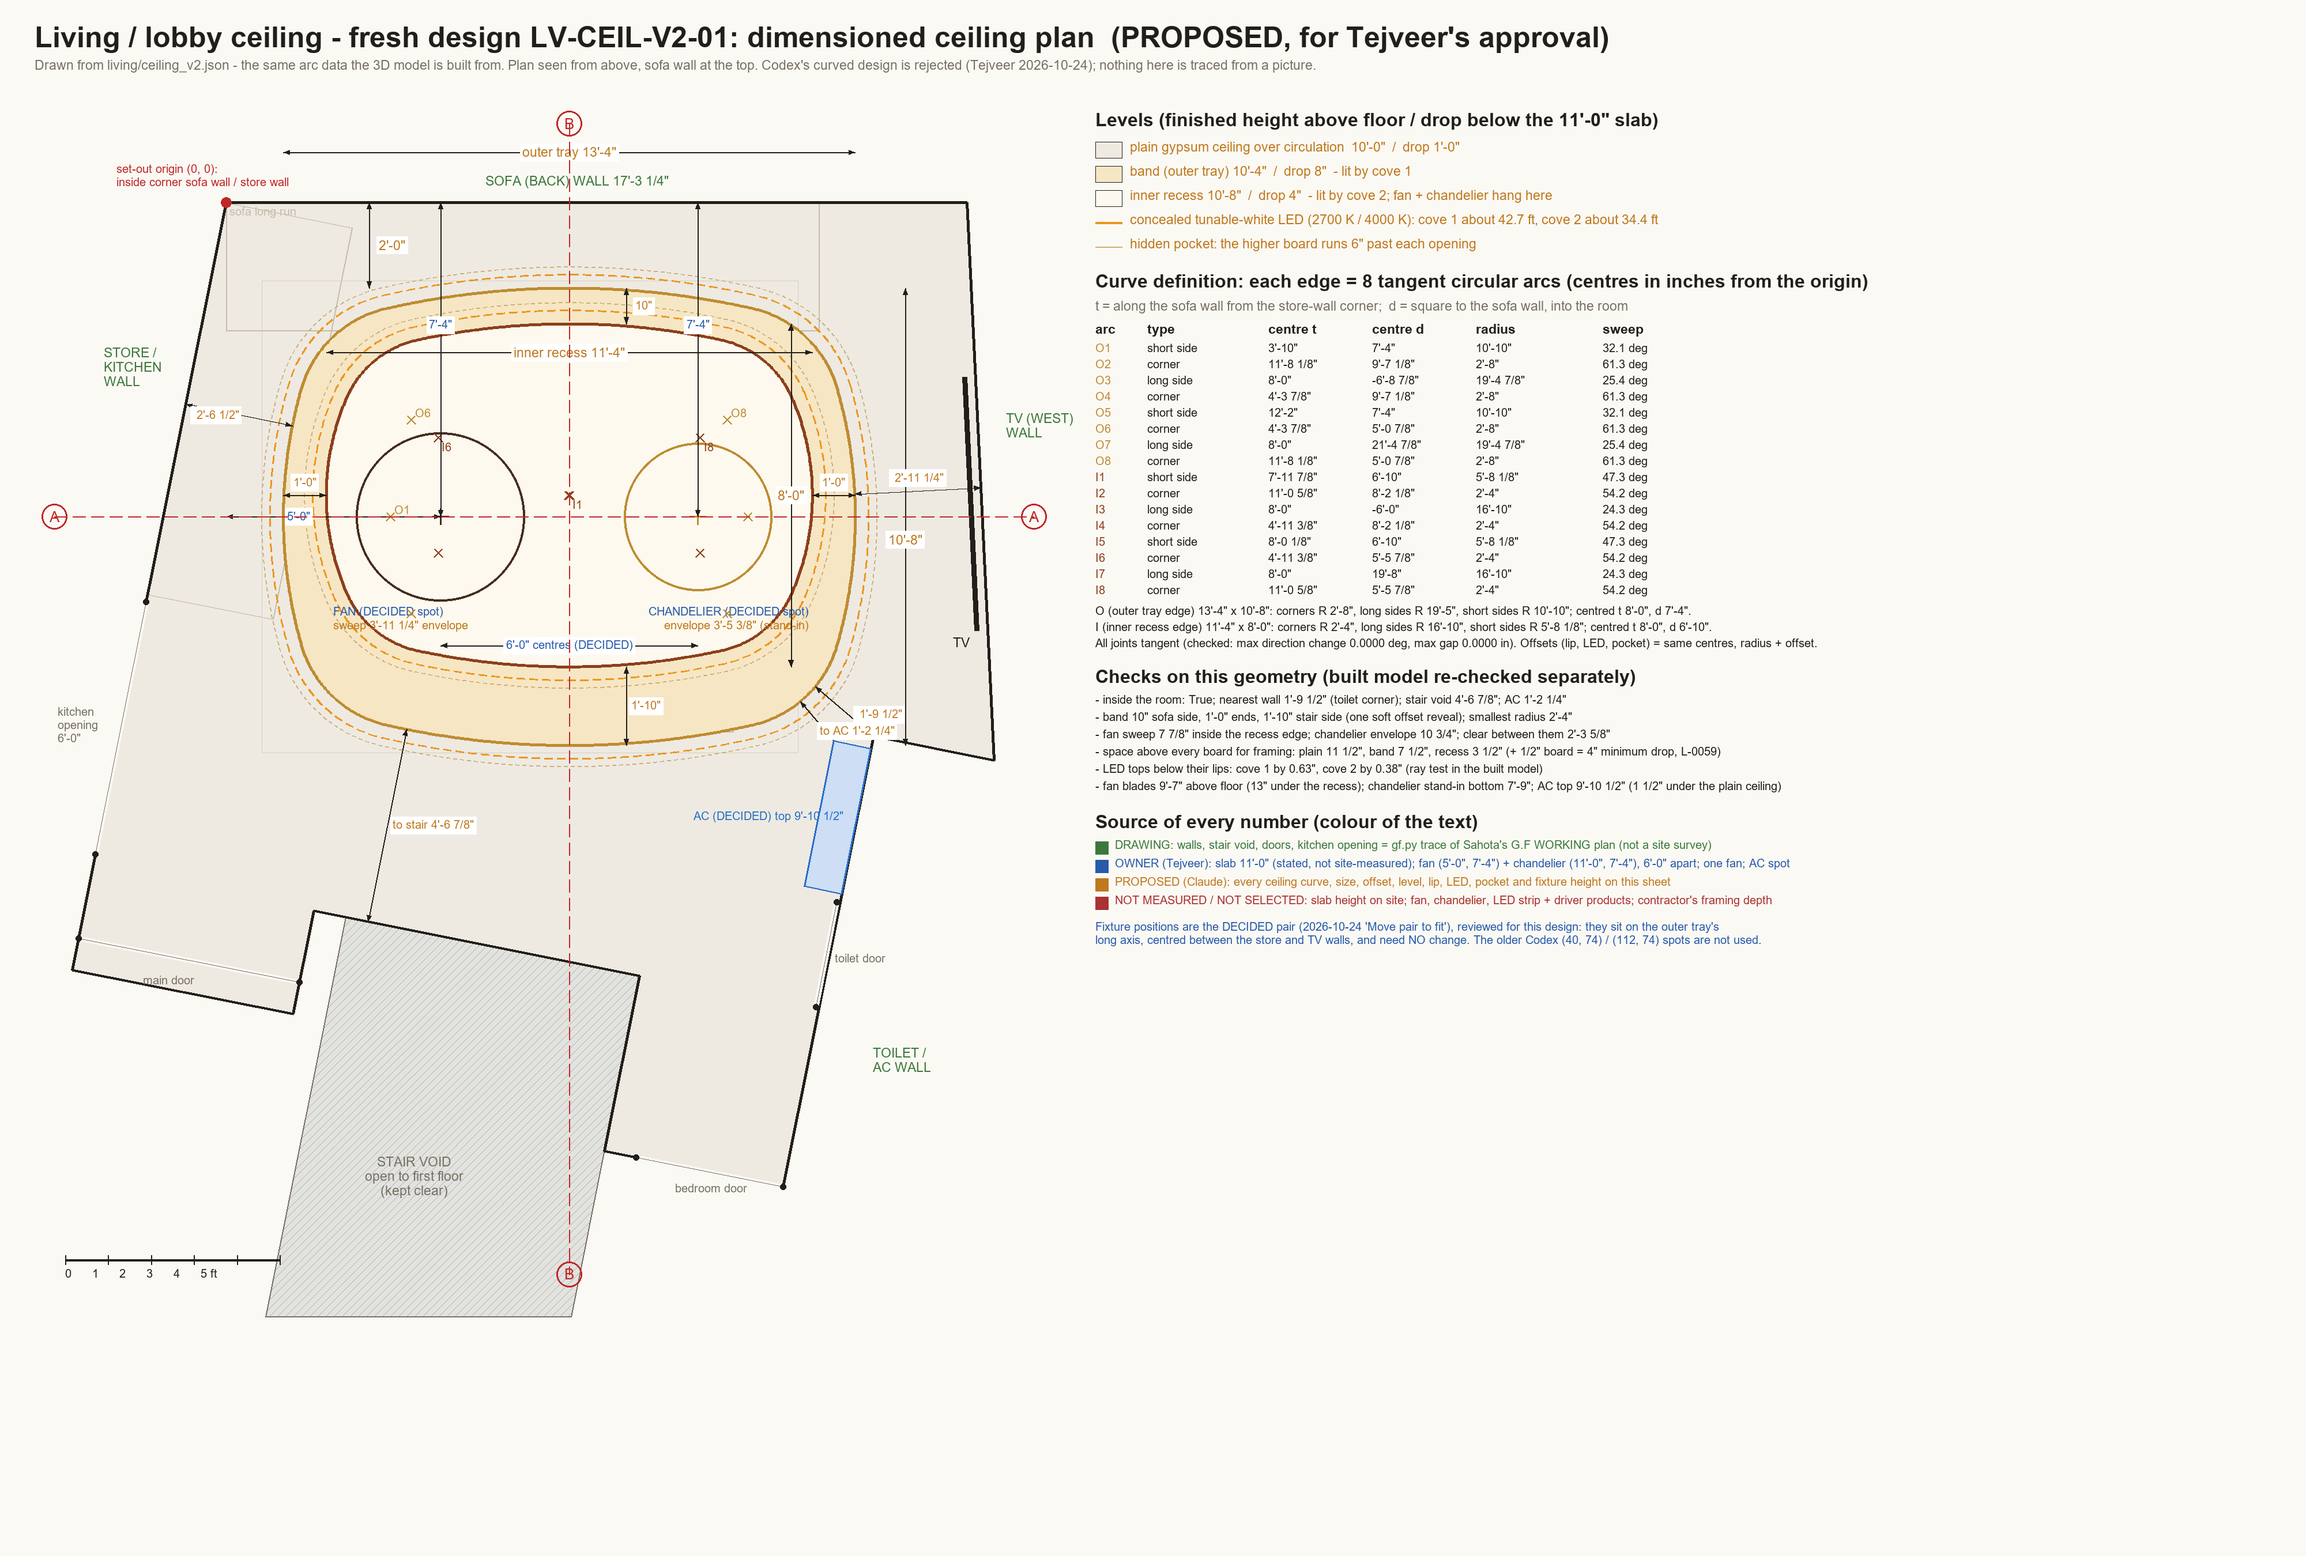
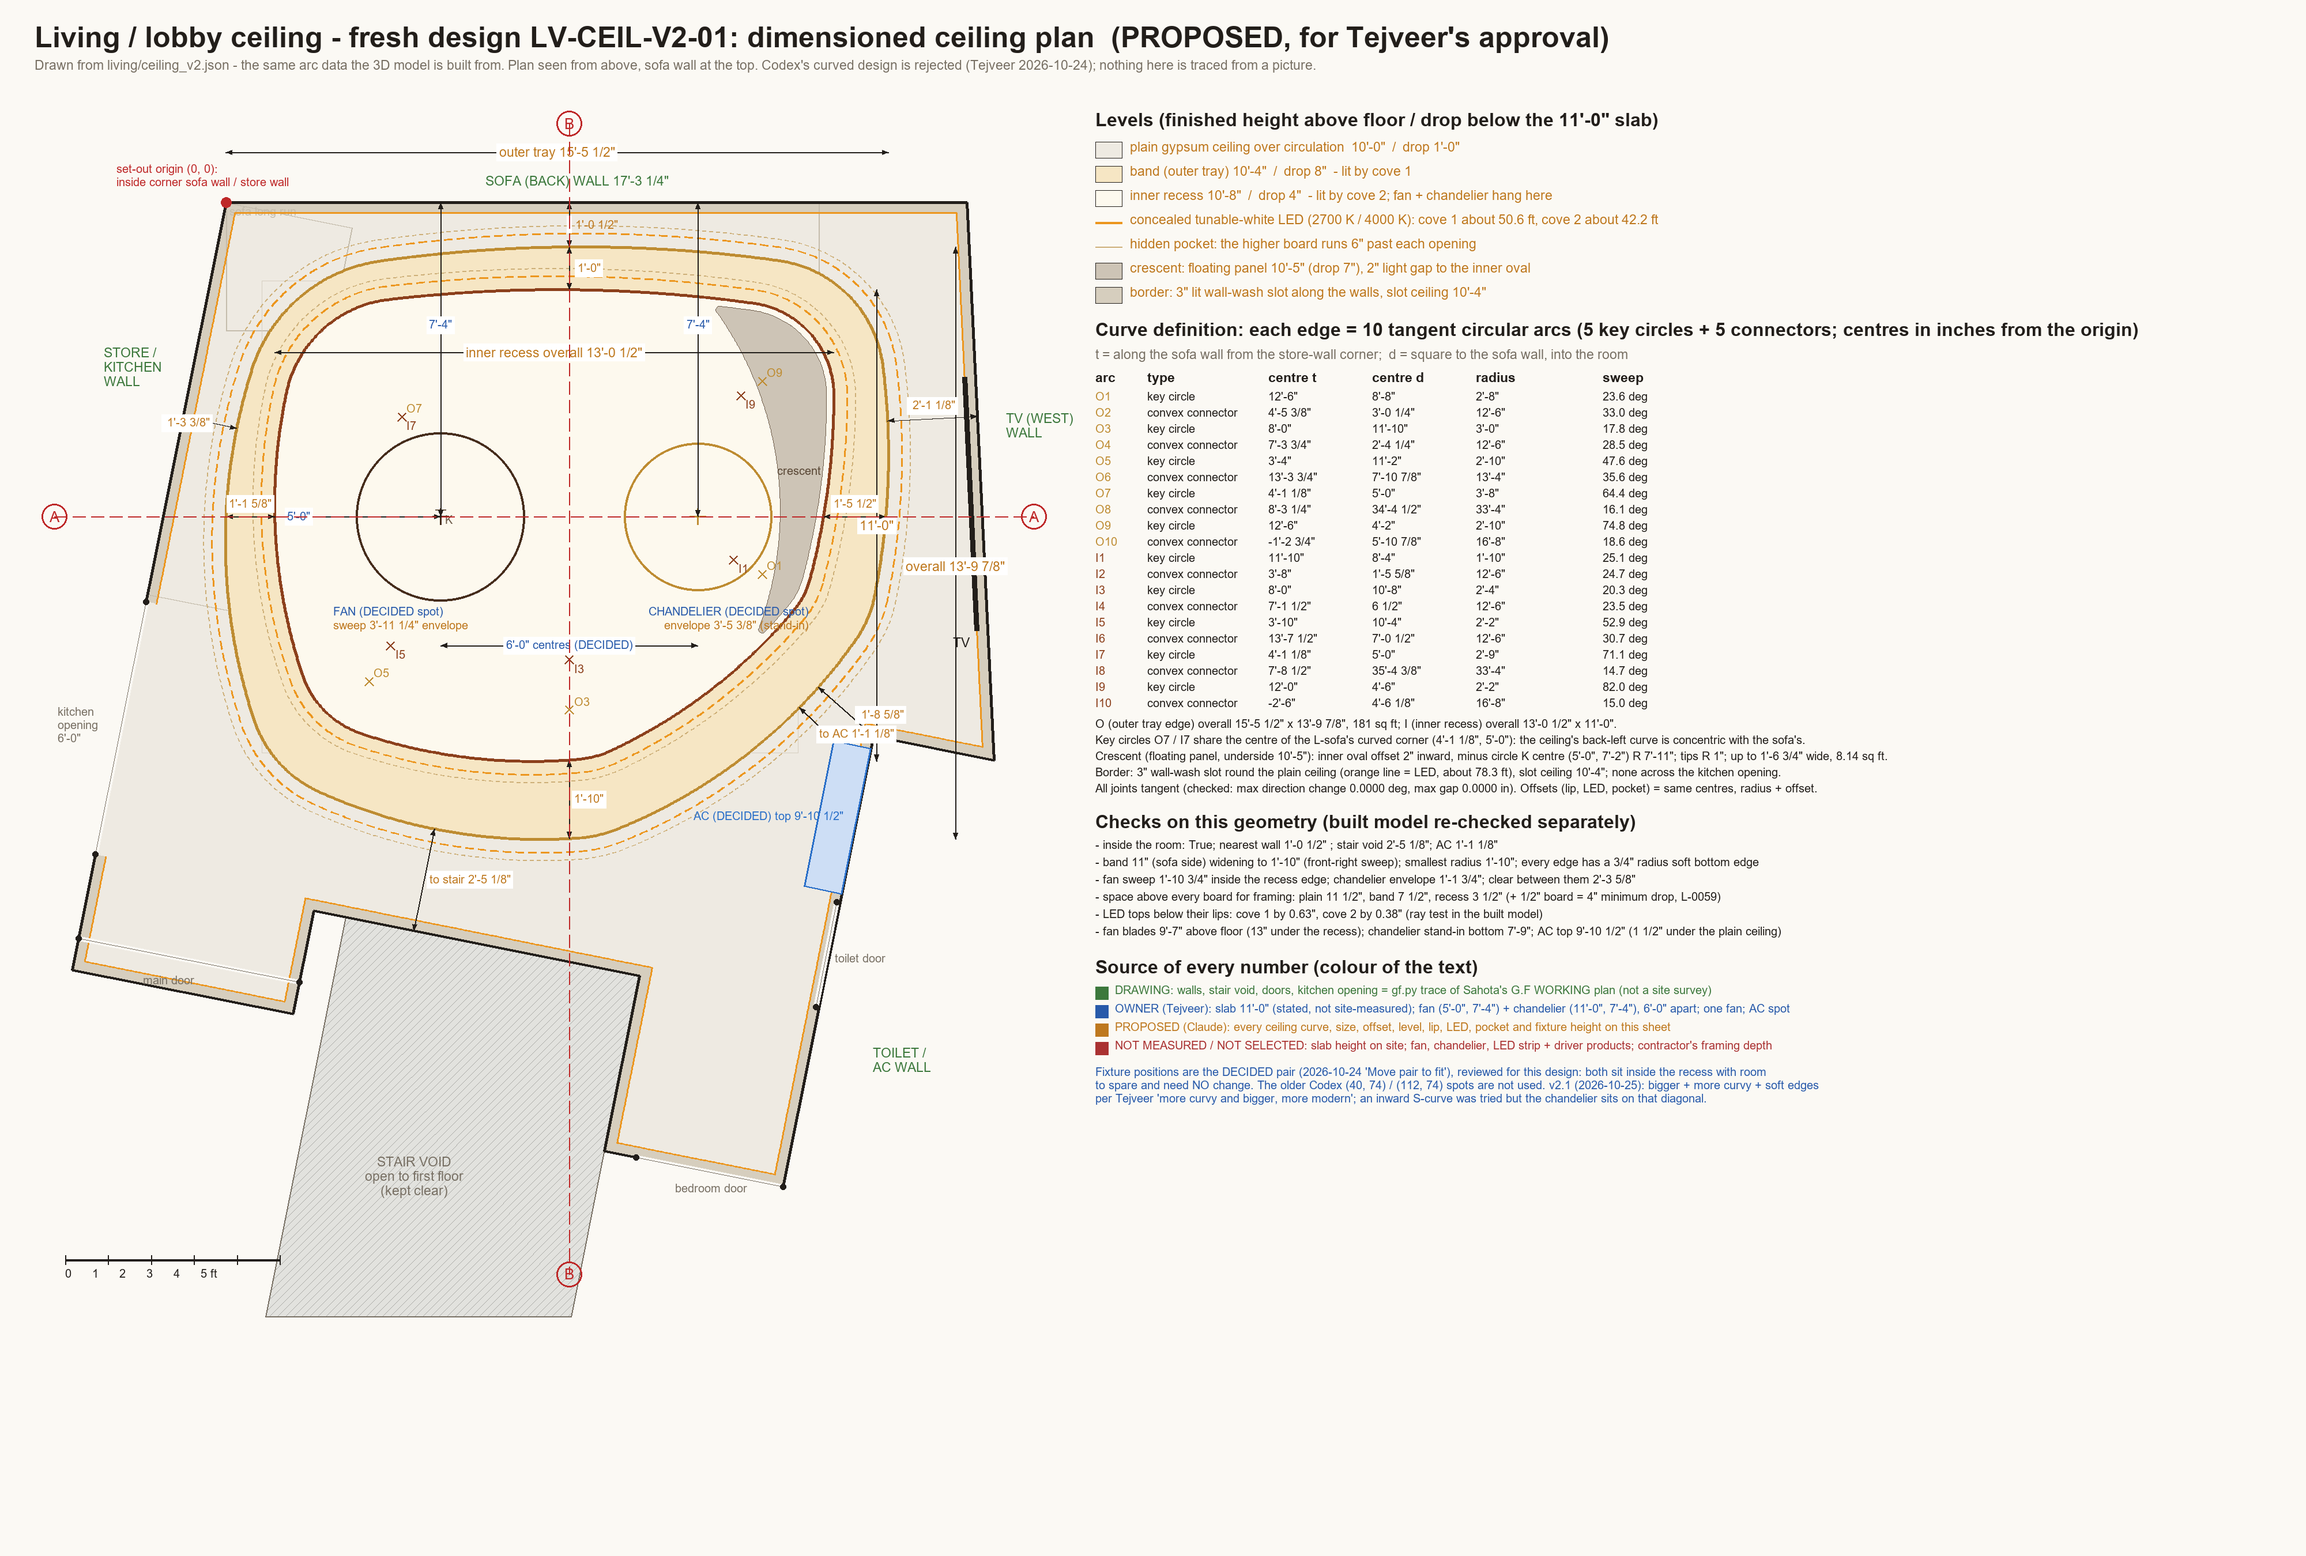
Update site (1 Layout N, 4 option C, 7 bathroom panoramas, house page)

diff --git a/house/living-ceiling/index.html b/house/living-ceiling/index.html
@@ -26,20 +26,18 @@ ul{padding-left:20px;max-width:80ch} li{margin:4px 0}
 <span class="tag">Proposed - for your approval</span>
 <!-- house-back 2026-10-24 -->
 <p style="margin:0 0 10px"><a href="../" style="color:inherit;font-weight:600">&larr; House 360</a></p>
-<h1>Living room ceiling - fresh design</h1>
-<p class="lead">New design drawn on the real room plan (Codex's curved ceiling is rejected). The drawings, the 3D model and these pictures all come from one set of arcs. Fast previews: the 4K renders follow only after you pass it.</p>
-<div class="bar" role="group" aria-label="Cove light colour"><button id="k27" aria-pressed="true">Warm 2700 K</button><button id="k40" aria-pressed="false">White 4000 K</button><span>same coves, same camera, exposure and white balance</span></div>
-<h2>3D model previews</h2>
-    <figure class="shot r16x9"><img data-v="LVC2F" src="img/LVC2F_K27.jpg" alt="Room view from the bedroom-door passage, toward the sofa wall" loading="lazy"><figcaption>Room view from the bedroom-door passage, toward the sofa wall</figcaption></figure>
-    <figure class="shot r16x9"><img data-v="LVC2E" src="img/LVC2E_K27.jpg" alt="Room view from just inside the main door" loading="lazy"><figcaption>Room view from just inside the main door</figcaption></figure>
-    <figure class="shot r4x3"><img data-v="LVCU2" src="img/LVCU2_K27.jpg" alt="Straight up from under the middle of the ceiling (whole feature). Looking up, so left and right are swapped compared with the plan: the chandelier shows on the left, the fan on the right; the sofa wall is at the top" loading="lazy"><figcaption>Straight up from under the middle of the ceiling (whole feature). Looking up, so left and right are swapped compared with the plan: the chandelier shows on the left, the fan on the right; the sofa wall is at the top</figcaption></figure>
+<h1>Living room ceiling - design B: bigger, curvier, 2 ovals + crescent + border</h1>
+<p class="lead">Your choices of 25 Oct: bigger and curvier (B, deeper toward the stairs), the reference's 2 ovals + crescent + lit border, soft rounded edges. Fan and chandelier unchanged. Drawings, 3D model and pictures all come from one set of arcs. Fast previews: the 4K renders follow only after you pass it.</p>
+
+<h2>3D model previews</h2><p class="note">The 3D previews of this version are rendering now. Refresh this page in about 15 minutes. The plan and sections below are final for this version.</p>
 <h2>Dimensioned plan and sections</h2>
 <div class="sheets"><a href="img/1-PLAN-PROPOSED.png"><figure class="shot"><img src="img/1-PLAN-PROPOSED.png" alt="Dimensioned ceiling plan" loading="lazy"><figcaption>Plan: sizes, arc centres and radii, distances to walls, stair and AC, fixture positions (tap to open full size)</figcaption></figure></a>
+<a href="img/3-HORIZONTAL-vs-VERTICAL.png"><figure class="shot"><img src="img/3-HORIZONTAL-vs-VERTICAL.png" alt="Horizontal vs vertical" loading="lazy"><figcaption>A / B / C compared on the plan (you chose B)</figcaption></figure></a>
 <a href="img/2-SECTIONS-PROPOSED.png"><figure class="shot"><img src="img/2-SECTIONS-PROPOSED.png" alt="Sections and cove detail" loading="lazy"><figcaption>Sections A-A and B-B, cove detail, levels and space for framing (tap to open full size)</figcaption></figure></a></div>
 <h2>Numbers</h2>
-<div class="table"><table><tr><td>Outer tray</td><td>13&#x27;-4&quot; x 10&#x27;-8&quot;, 8 tangent arcs (corners R 2&#x27;-8&quot;)</td><td class=src>proposed</td></tr><tr><td>Inner recess</td><td>11&#x27;-4&quot; x 8&#x27;-0&quot;, 8 tangent arcs (corners R 2&#x27;-4&quot;), set 6&quot; toward the sofa wall</td><td class=src>proposed</td></tr><tr><td>Band between them</td><td>10&quot; sofa side, 1&#x27;-0&quot; ends, 1&#x27;-10&quot; stair side</td><td class=src>proposed</td></tr><tr><td>Slab soffit</td><td>11&#x27;-0&quot; above floor</td><td class=src>owner (not site-measured)</td></tr><tr><td>Plain ceiling (circulation)</td><td>10&#x27;-0&quot; - drop 1&#x27;-0&quot;</td><td class=src>proposed</td></tr><tr><td>Band</td><td>10&#x27;-4&quot; - drop 8&quot;</td><td class=src>proposed</td></tr><tr><td>Recess</td><td>10&#x27;-8&quot; - drop 4&quot; (4&quot; framing + board minimum)</td><td class=src>proposed</td></tr><tr><td>Coves</td><td>2 x 4&quot; steps, LED 3 1/2&quot; behind a lip in a 6&quot; pocket; about 43 ft + 34 ft of strip</td><td class=src>proposed</td></tr><tr><td>Fan + chandelier</td><td>5&#x27;-0&quot; and 11&#x27;-0&quot; along the sofa wall, both 7&#x27;-4&quot; out, 6&#x27;-0&quot; apart</td><td class=src>owner (DECIDED, unchanged)</td></tr><tr><td>Fan blades / chandelier bottom</td><td>9&#x27;-7&quot; / 7&#x27;-9&quot; (model stand-ins, products not chosen)</td><td class=src>proposed</td></tr><tr><td>Distance to walls</td><td>nearest 1&#x27;-9 1/2&quot; (toilet corner); sofa wall 2&#x27;-0&quot;; stair void 4&#x27;-6 7/8&quot;; AC 1&#x27;-2 1/4&quot;</td><td class=src>measured on the model</td></tr><tr><td>Camera / light</td><td>same camera, exposure and white balance (5500 K) for 2700 K and 4000 K; chandelier off</td><td class=src>render setting</td></tr></table></div>
+<div class="table"><table><tr><td>Outer oval (tray)</td><td>15&#x27;-5 1/2&quot; x 13&#x27;-9 7/8&quot; overall, 181 sq ft; 10 tangent arcs; back-left curve concentric with the sofa&#x27;s curved corner</td><td class=src>proposed (your B)</td></tr><tr><td>Inner oval (recess)</td><td>13&#x27;-0 1/2&quot; x 11&#x27;-0&quot; overall</td><td class=src>proposed</td></tr><tr><td>Band between them</td><td>11&quot; on the sofa side to 1&#x27;-10&quot; on the front-right sweep</td><td class=src>proposed</td></tr><tr><td>Crescent</td><td>floating panel inside the inner oval on the TV side, 2&quot; light gap, up to 1&#x27;-6 3/4&quot; wide, underside 10&#x27;-5&quot;</td><td class=src>proposed (your choice)</td></tr><tr><td>Border</td><td>3&quot; lit wall-wash slot along the walls (not across the kitchen opening), about 78.3 ft of LED</td><td class=src>proposed (your choice)</td></tr><tr><td>Edges</td><td>every visible edge has a 0 3/4&quot; radius soft bottom edge</td><td class=src>proposed</td></tr><tr><td>Slab soffit</td><td>11&#x27;-0&quot; above floor</td><td class=src>owner (not site-measured)</td></tr><tr><td>Plain ceiling (circulation)</td><td>10&#x27;-0&quot; - drop 1&#x27;-0&quot;</td><td class=src>proposed</td></tr><tr><td>Band</td><td>10&#x27;-4&quot; - drop 8&quot;</td><td class=src>proposed</td></tr><tr><td>Recess</td><td>10&#x27;-8&quot; - drop 4&quot; (4&quot; framing + board minimum)</td><td class=src>proposed</td></tr><tr><td>Coves</td><td>2 x 4&quot; steps, LED 3 1/2&quot; behind the edge in a 6&quot; pocket; about 51 ft + 42 ft of strip</td><td class=src>proposed</td></tr><tr><td>Fan + chandelier</td><td>5&#x27;-0&quot; and 11&#x27;-0&quot; along the sofa wall, both 7&#x27;-4&quot; out, 6&#x27;-0&quot; apart</td><td class=src>owner (DECIDED, unchanged)</td></tr><tr><td>Fan blades / chandelier bottom</td><td>9&#x27;-7&quot; / 7&#x27;-9&quot; (model stand-ins, products not chosen)</td><td class=src>proposed</td></tr><tr><td>Distance to walls</td><td>nearest 1&#x27;-0 1/2&quot;; stair void 2&#x27;-5 1/8&quot;; AC 1&#x27;-1 1/8&quot;</td><td class=src>measured on the model</td></tr><tr><td>Camera / light</td><td>same camera, exposure and white balance (5500 K) for 2700 K and 4000 K; chandelier off</td><td class=src>render setting</td></tr></table></div>
 <h2>Checked on the built model</h2>
-<ul><li>Built model edges vs the drawing&#x27;s arcs: max 0.03&quot; off</li><li>LED strips seen from 255 eye positions (sitting, standing, cameras): 0 of 214710 sight lines</li><li>Fan sweep 7 7/8&quot; inside the recess edge; chandelier 10 3/4&quot;; 2&#x27;-3 5/8&quot; clear between them</li><li>Every level leaves at least 4&quot; under the slab for GI framing + 12.5 mm board (allowance; contractor to confirm)</li><li>Curves join smoothly (no corners, no gaps); no extra ledges: two steps, two coves</li></ul>
+<ul><li>Fan sweep 1&#x27;-10 3/4&quot; inside the recess edge; chandelier 1&#x27;-1 3/4&quot;; 2&#x27;-3 5/8&quot; clear between them</li><li>Every level leaves at least 4&quot; under the slab for GI framing + 12.5 mm board (allowance; contractor to confirm)</li><li>Curves join smoothly (no corners, no gaps); no extra ledges: two steps, two coves</li><li>Built-model checks (edges against the drawing, LED concealment) are published with the 3D previews</li></ul>
 <h2>Not measured / not chosen yet</h2>
 <p class="note">Slab height 11'-0" is your figure, not a site measurement. Fan, chandelier, LED strip and driver products are not chosen: the fixtures in the pictures are model stand-ins. The 4" framing space is a planning allowance; the ceiling contractor should confirm it before the levels are fixed.</p>
 </div>
@@ -47,7 +45,9 @@ ul{padding-left:20px;max-width:80ch} li{margin:4px 0}
 const set = k => { document.querySelectorAll("img[data-v]").forEach(i => i.src = "img/" + i.dataset.v + "_" + k + ".jpg");
   document.getElementById("k27").setAttribute("aria-pressed", k === "K27"); document.getElementById("k40").setAttribute("aria-pressed", k === "K40");
   try { localStorage.setItem("lvc2k", k); } catch (e) {} };
-document.getElementById("k27").onclick = () => set("K27"); document.getElementById("k40").onclick = () => set("K40");
-try { const k = localStorage.getItem("lvc2k"); if (k === "K40") set("K40"); } catch (e) {}
+if (document.getElementById("k27")) {
+  document.getElementById("k27").onclick = () => set("K27"); document.getElementById("k40").onclick = () => set("K40");
+  try { const k = localStorage.getItem("lvc2k"); if (k === "K40") set("K40"); } catch (e) {}
+}
 </script>
 </body></html>
